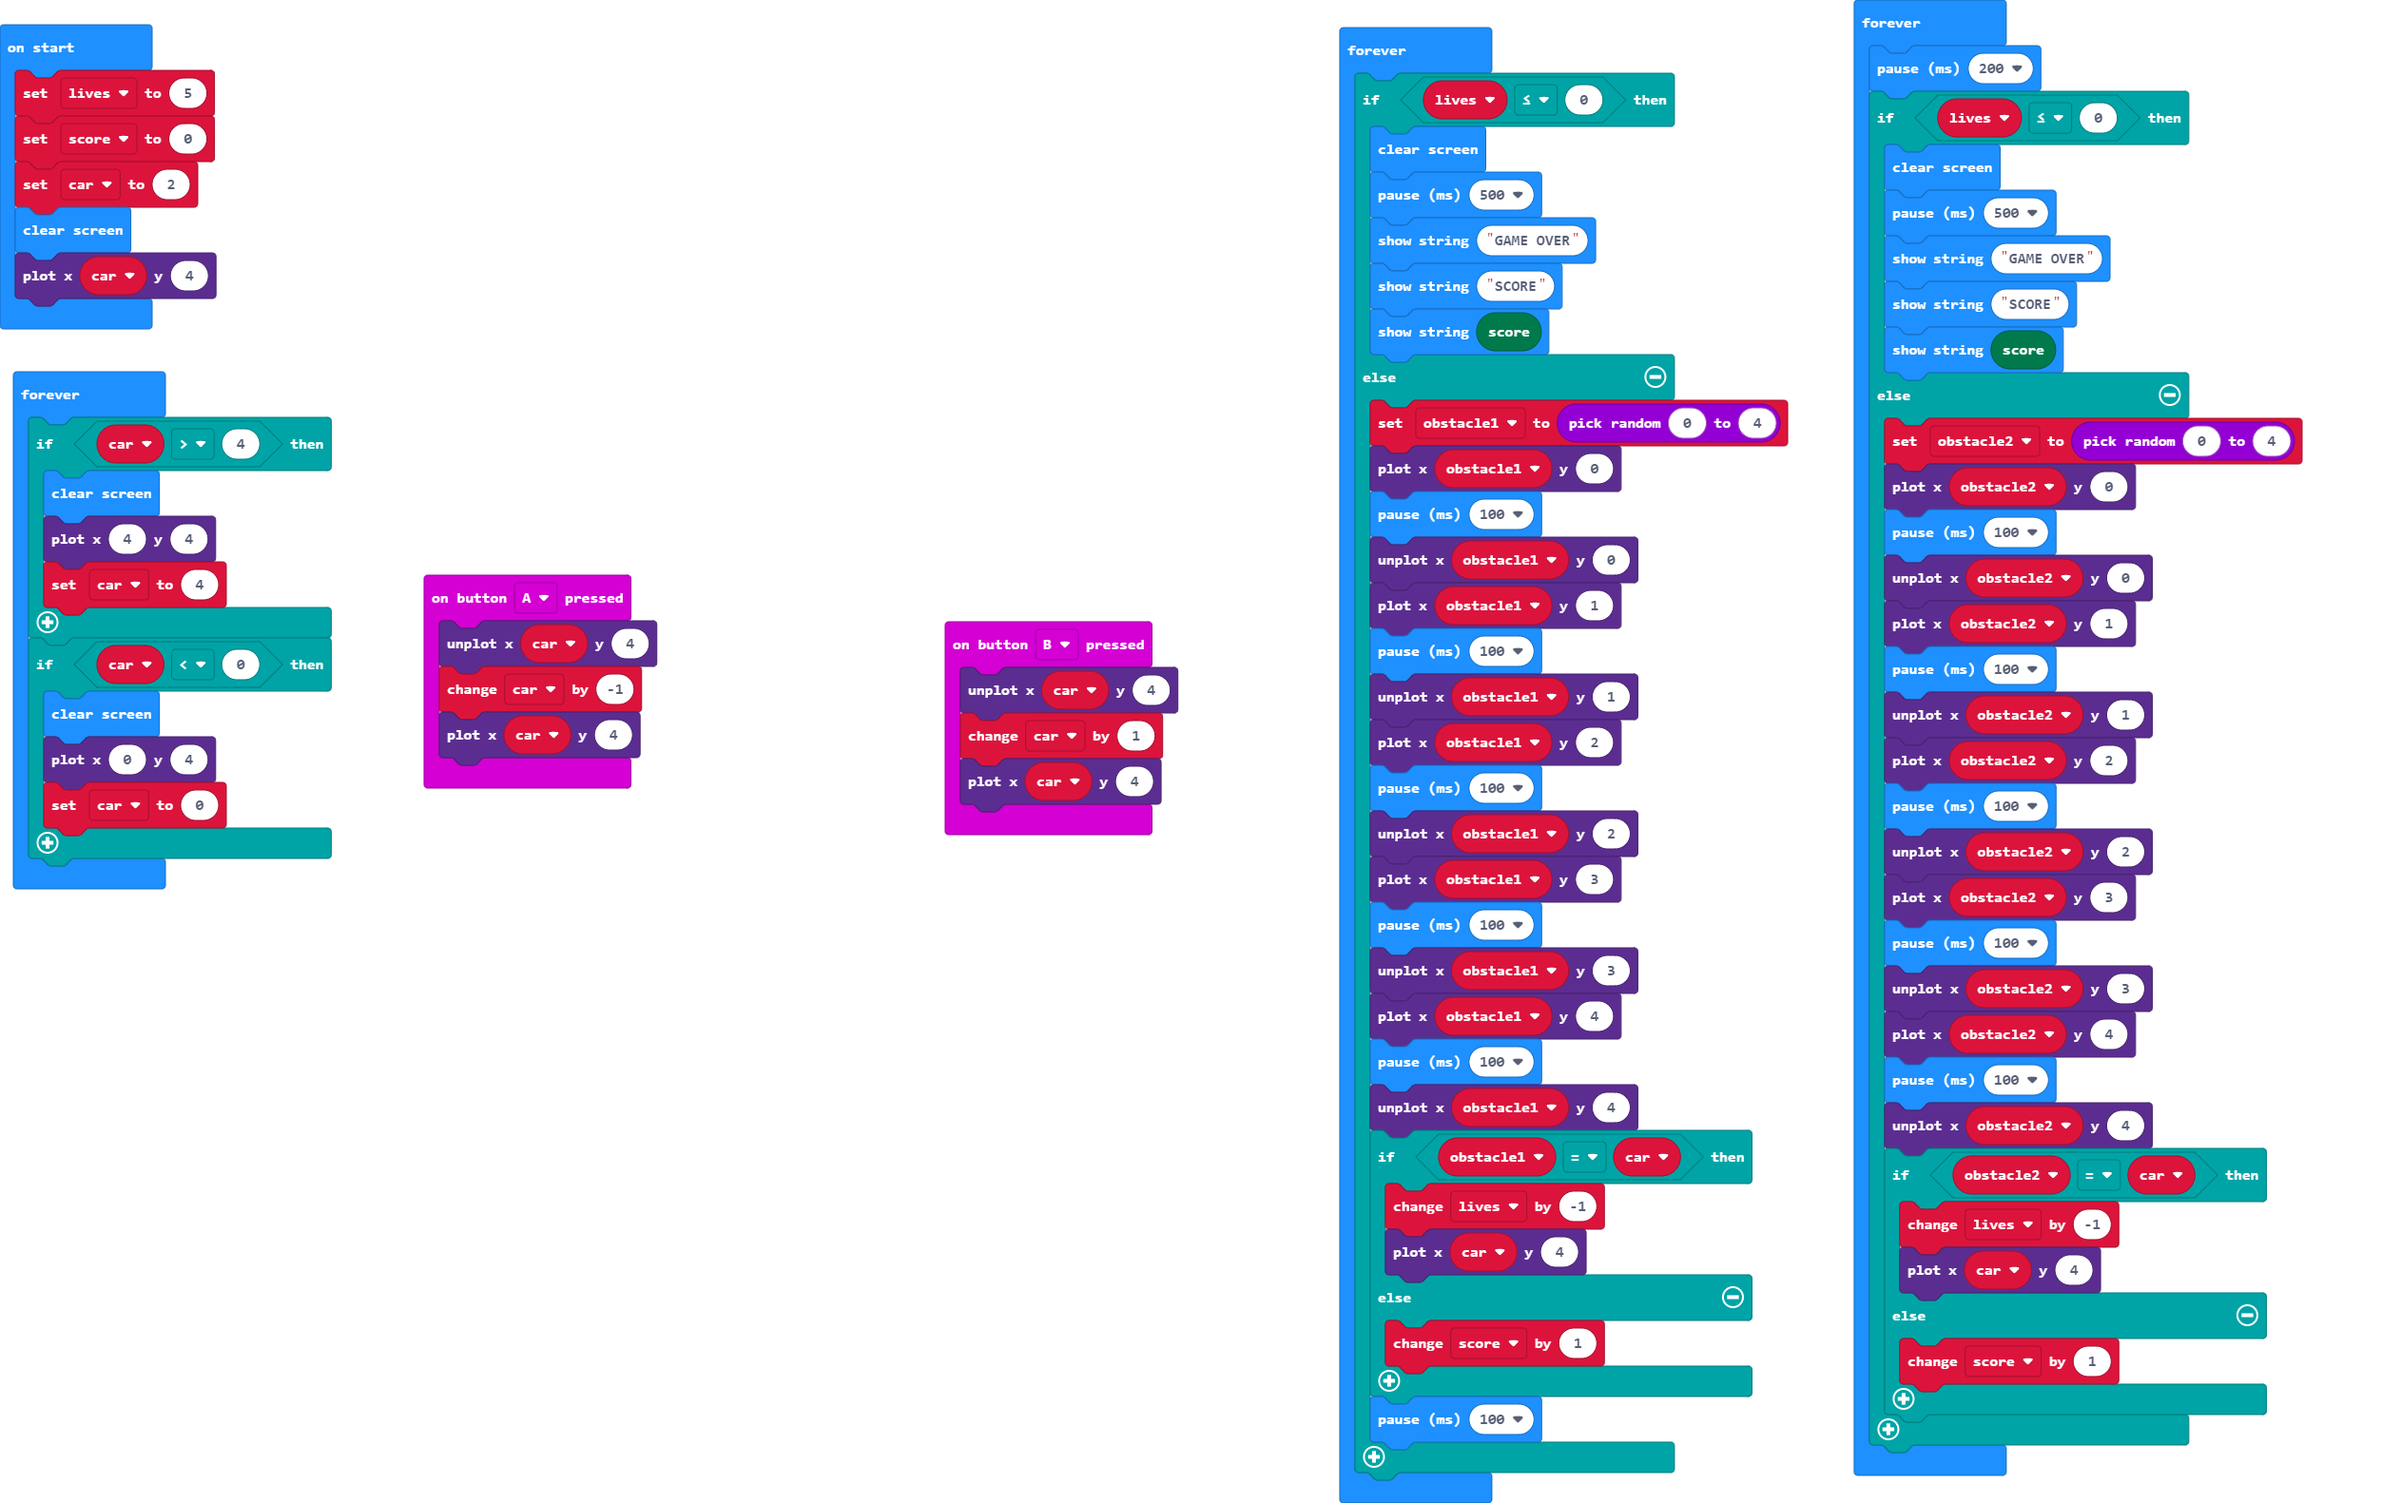
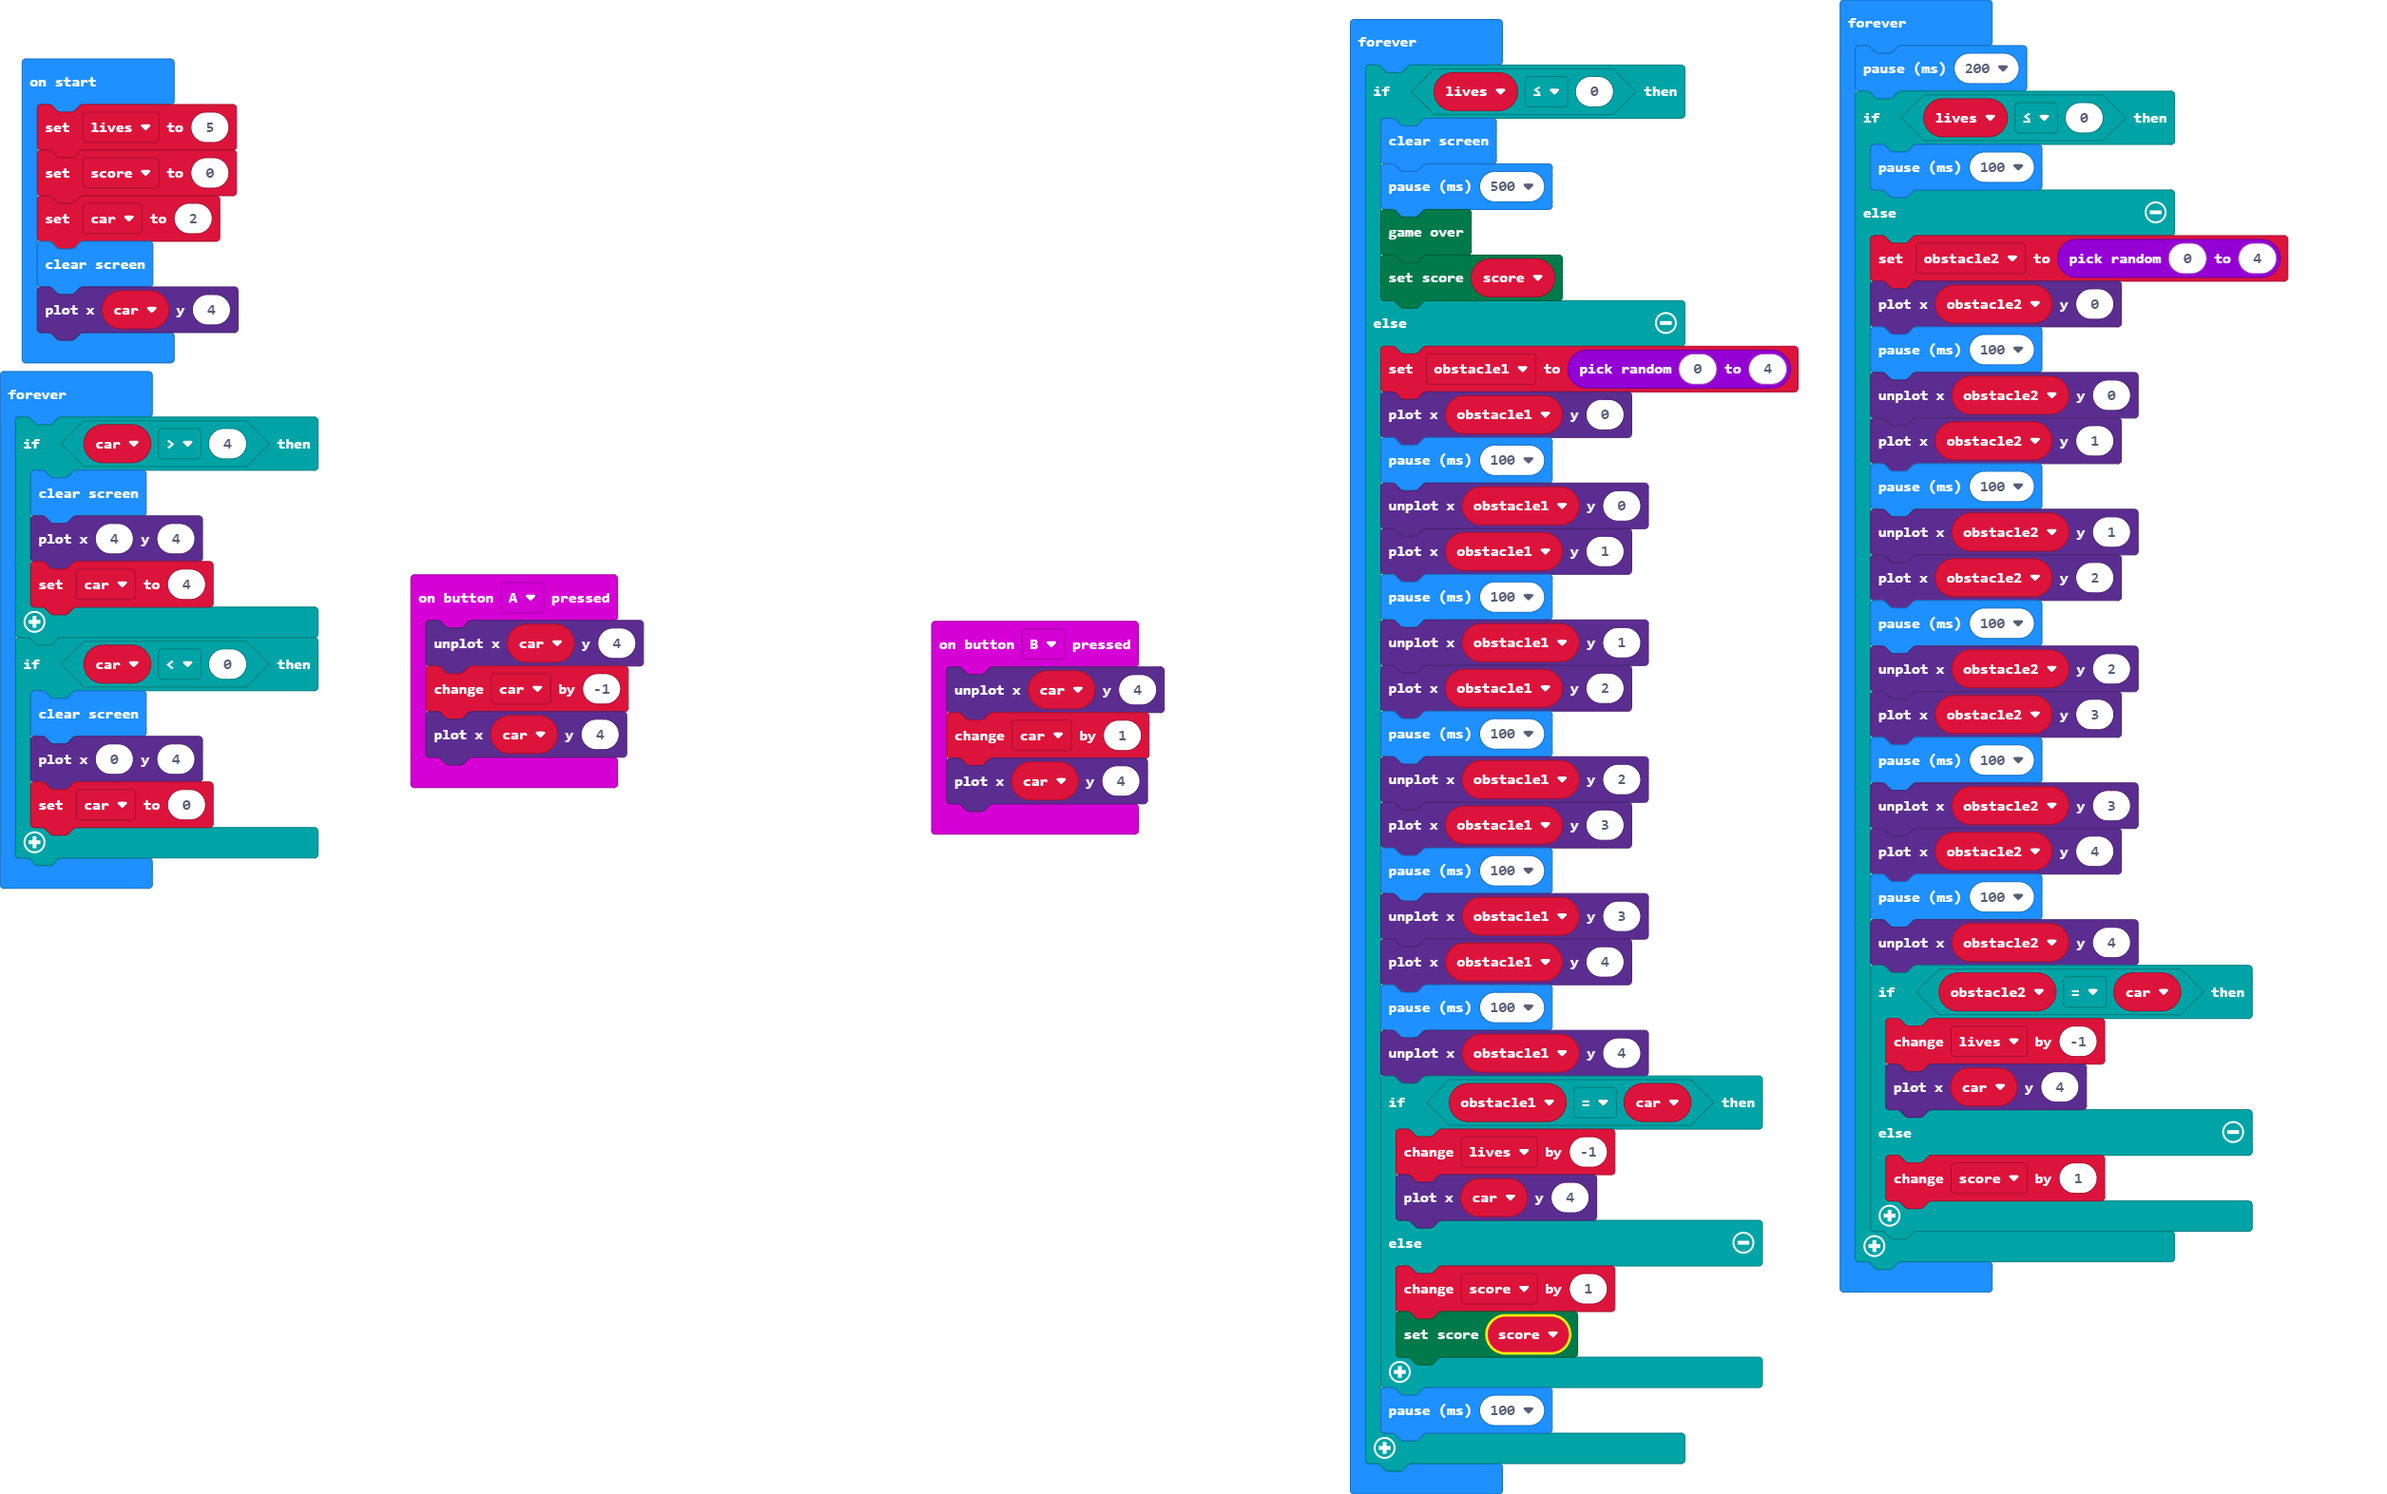
Update main.blocks, main.ts

diff --git a/main.ts b/main.ts
@@ -8,8 +8,8 @@ input.onButtonPressed(Button.B, function () {
     car += 1
     led.plot(car, 4)
 })
-let obstacle1 = 0
 let obstacle2 = 0
+let obstacle1 = 0
 let car = 0
 let lives = 5
 let score = 0
@@ -17,13 +17,42 @@ car = 2
 basic.clearScreen()
 led.plot(car, 4)
 basic.forever(function () {
-    basic.pause(200)
     if (lives <= 0) {
         basic.clearScreen()
         basic.pause(500)
-        basic.showString("GAME OVER")
-        basic.showString("SCORE")
-        basic.showString("" + (game.score()))
+        game.gameOver()
+        game.setScore(score)
+    } else {
+        obstacle1 = randint(0, 4)
+        led.plot(obstacle1, 0)
+        basic.pause(100)
+        led.unplot(obstacle1, 0)
+        led.plot(obstacle1, 1)
+        basic.pause(100)
+        led.unplot(obstacle1, 1)
+        led.plot(obstacle1, 2)
+        basic.pause(100)
+        led.unplot(obstacle1, 2)
+        led.plot(obstacle1, 3)
+        basic.pause(100)
+        led.unplot(obstacle1, 3)
+        led.plot(obstacle1, 4)
+        basic.pause(100)
+        led.unplot(obstacle1, 4)
+        if (obstacle1 == car) {
+            lives += -1
+            led.plot(car, 4)
+        } else {
+            score += 1
+            game.setScore(score)
+        }
+        basic.pause(100)
+    }
+})
+basic.forever(function () {
+    basic.pause(200)
+    if (lives <= 0) {
+        basic.pause(100)
     } else {
         obstacle2 = randint(0, 4)
         led.plot(obstacle2, 0)
@@ -47,39 +76,6 @@ basic.forever(function () {
         } else {
             score += 1
         }
-    }
-})
-basic.forever(function () {
-    if (lives <= 0) {
-        basic.clearScreen()
-        basic.pause(500)
-        basic.showString("GAME OVER")
-        basic.showString("SCORE")
-        basic.showString("" + (game.score()))
-    } else {
-        obstacle1 = randint(0, 4)
-        led.plot(obstacle1, 0)
-        basic.pause(100)
-        led.unplot(obstacle1, 0)
-        led.plot(obstacle1, 1)
-        basic.pause(100)
-        led.unplot(obstacle1, 1)
-        led.plot(obstacle1, 2)
-        basic.pause(100)
-        led.unplot(obstacle1, 2)
-        led.plot(obstacle1, 3)
-        basic.pause(100)
-        led.unplot(obstacle1, 3)
-        led.plot(obstacle1, 4)
-        basic.pause(100)
-        led.unplot(obstacle1, 4)
-        if (obstacle1 == car) {
-            lives += -1
-            led.plot(car, 4)
-        } else {
-            score += 1
-        }
-        basic.pause(100)
     }
 })
 basic.forever(function () {
